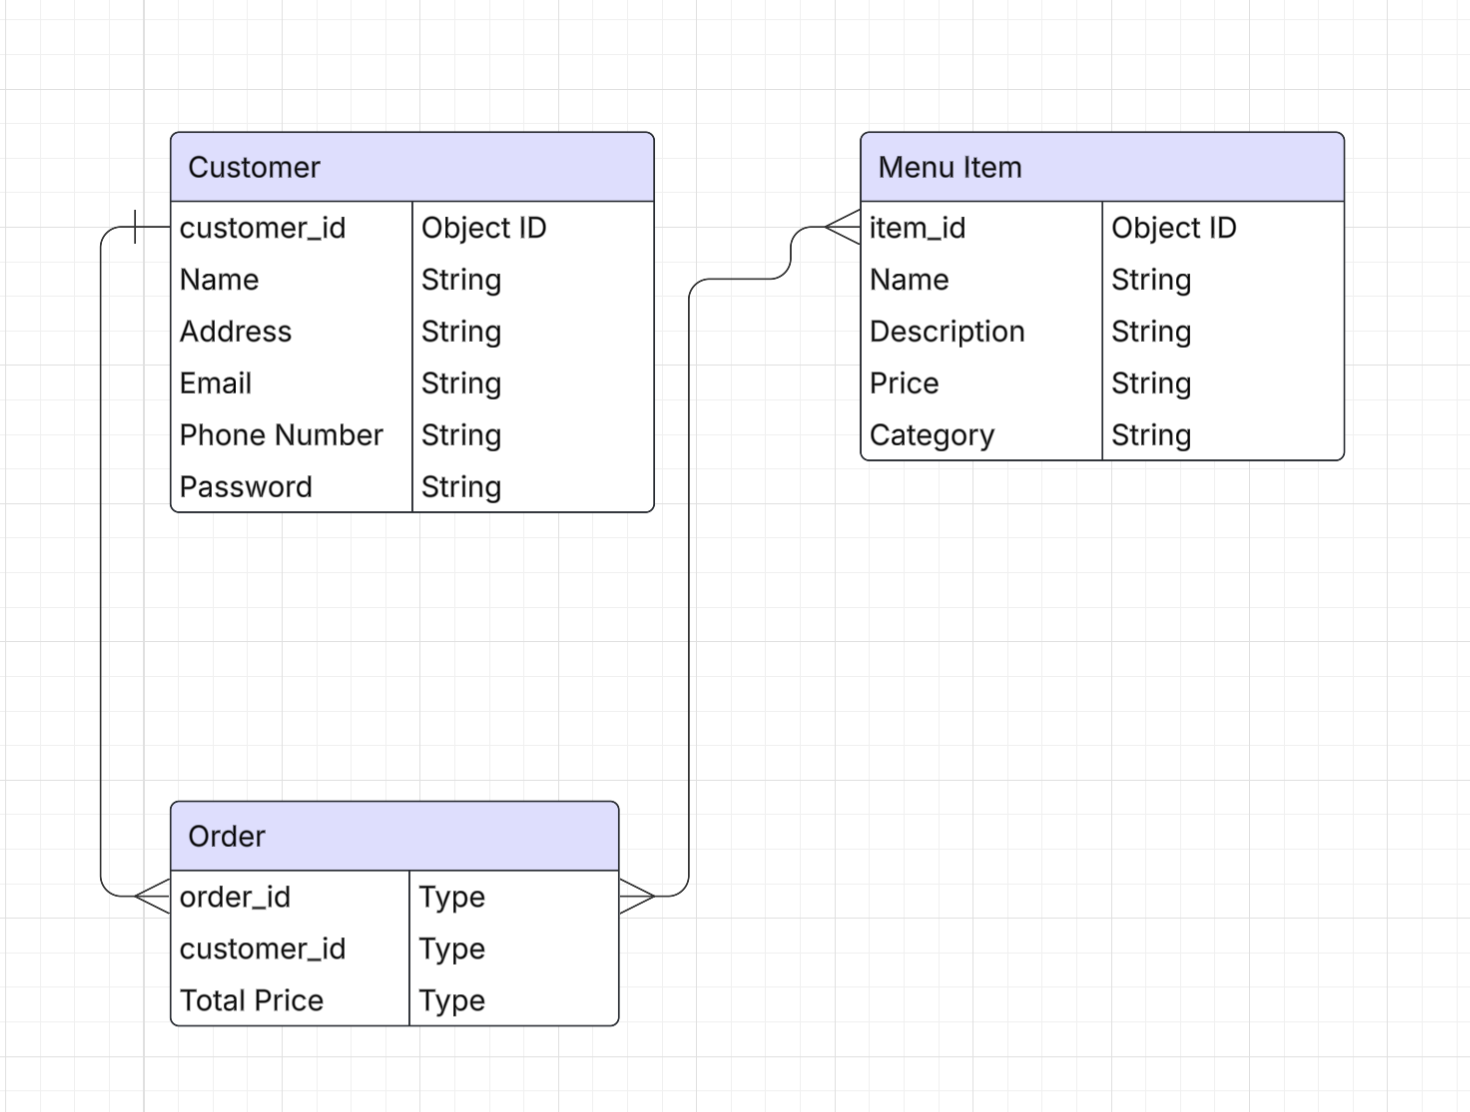
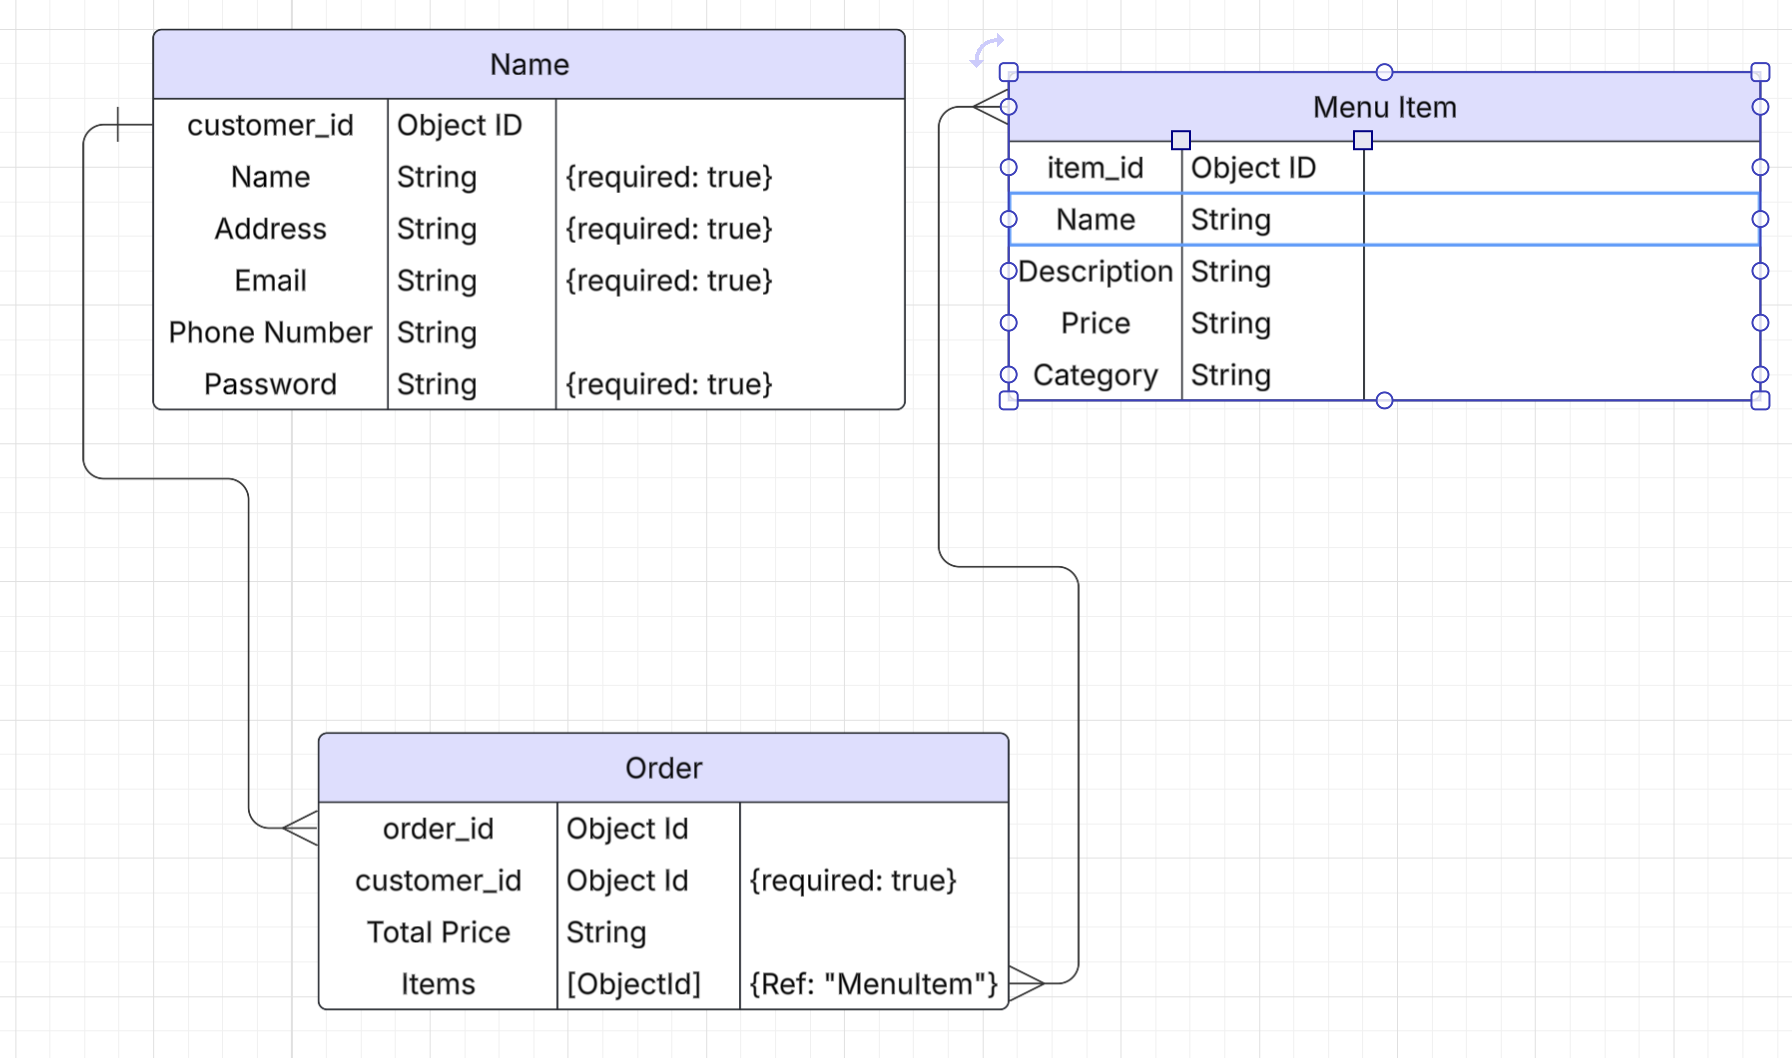
approved approval

diff --git a/Proposal.md b/Proposal.md
@@ -38,6 +38,7 @@ As an AAU, I should be able to choose if I want to pick-up the food or have it d
 - In addition to the AAU view, there could be a user profile for the restaurant owner to edit the restaurant page: adding, editing, or deleting menu items.
 
 ## ERD
+
 ![image](./assets/mezclaERD.png)
 
 ## RESTful Routes
@@ -45,20 +46,27 @@ As an AAU, I should be able to choose if I want to pick-up the food or have it d
 
 | Resource           | HTTP Method | Route Path                | Purpose                             |
 |--------------------|-------------|---------------------------|--------------------------------------|
-| **Customers**      | `GET`       | `/customers`              | View all customers (admin)           |
-|                    | `GET`       | `/customers/:id`          | View one customer                    |
-|                    | `POST`      | `/customers`              | Register a new customer              |
-|                    | `PUT`       | `/customers/:id`          | Update a customer profile            |
-|                    | `DELETE`    | `/customers/:id`          | Delete a customer                    |
-| **Menu Items**     | `GET`       | `/menu_items`             | View all menu items                  |
-|                    | `GET`       | `/menu_items/:id`         | View one menu item                   |
-|                    | `POST`      | `/menu_items`             | Add a new menu item (admin)          |
-|                    | `PUT`       | `/menu_items/:id`         | Edit a menu item (admin)             |
-|                    | `DELETE`    | `/menu_items/:id`         | Delete a menu item                   |
+| **Menu Items**     | `GET`       | `/menu-items`             | View all menu items                  |
+|                    | `GET`       | `/menu-items/:id`         | View one menu item                   |
+|                    | `POST`      | `/menu-items`             | Add a new menu item (admin)          |
+|                    | `PUT`       | `/menu-items/:id`         | Edit a menu item (admin)             |
+|                    | `DELETE`    | `/menu-items/:id`         | Delete a menu item                   |
 | **Orders**         | `GET`       | `/orders`                 | View all orders (admin/staff)        |
 |                    | `GET`       | `/orders/:id`             | View specific order                  |
 |                    | `POST`      | `/orders`                 | Place a new order                    |
 |                    | `PUT`       | `/orders/:id`             | Update order status                  |
 |                    | `DELETE`    | `/orders/:id`             | Cancel an order                      |
 
+#### Timeline - Daily Accountability
 
+| Day        |   | Task                               | Blockers | Notes/ Thoughts |
+|------------|---|------------------------------------|----------|-----------------|
+| Monday     |   | Create and present proposal        |          |                 |
+| Tuesday    |   | Set up project, basic structure, and EJS template files                 |          |                 |
+| Wednesday  |   | CRUD Operations/Second Model                     |          |                 |
+| Thursday   |   | Middleware/Clean up code                    |          |                 |
+| Friday     |   | UI/UX                        |          |                 |
+| Saturday   |   | Finalize MVP                       |          |                 |
+| Sunday     |   | Work on stretch goals              |          |                 |
+| Monday     |   | Presentation Day!                  |          |                 |
+|            |   |                                    |          |                 |
